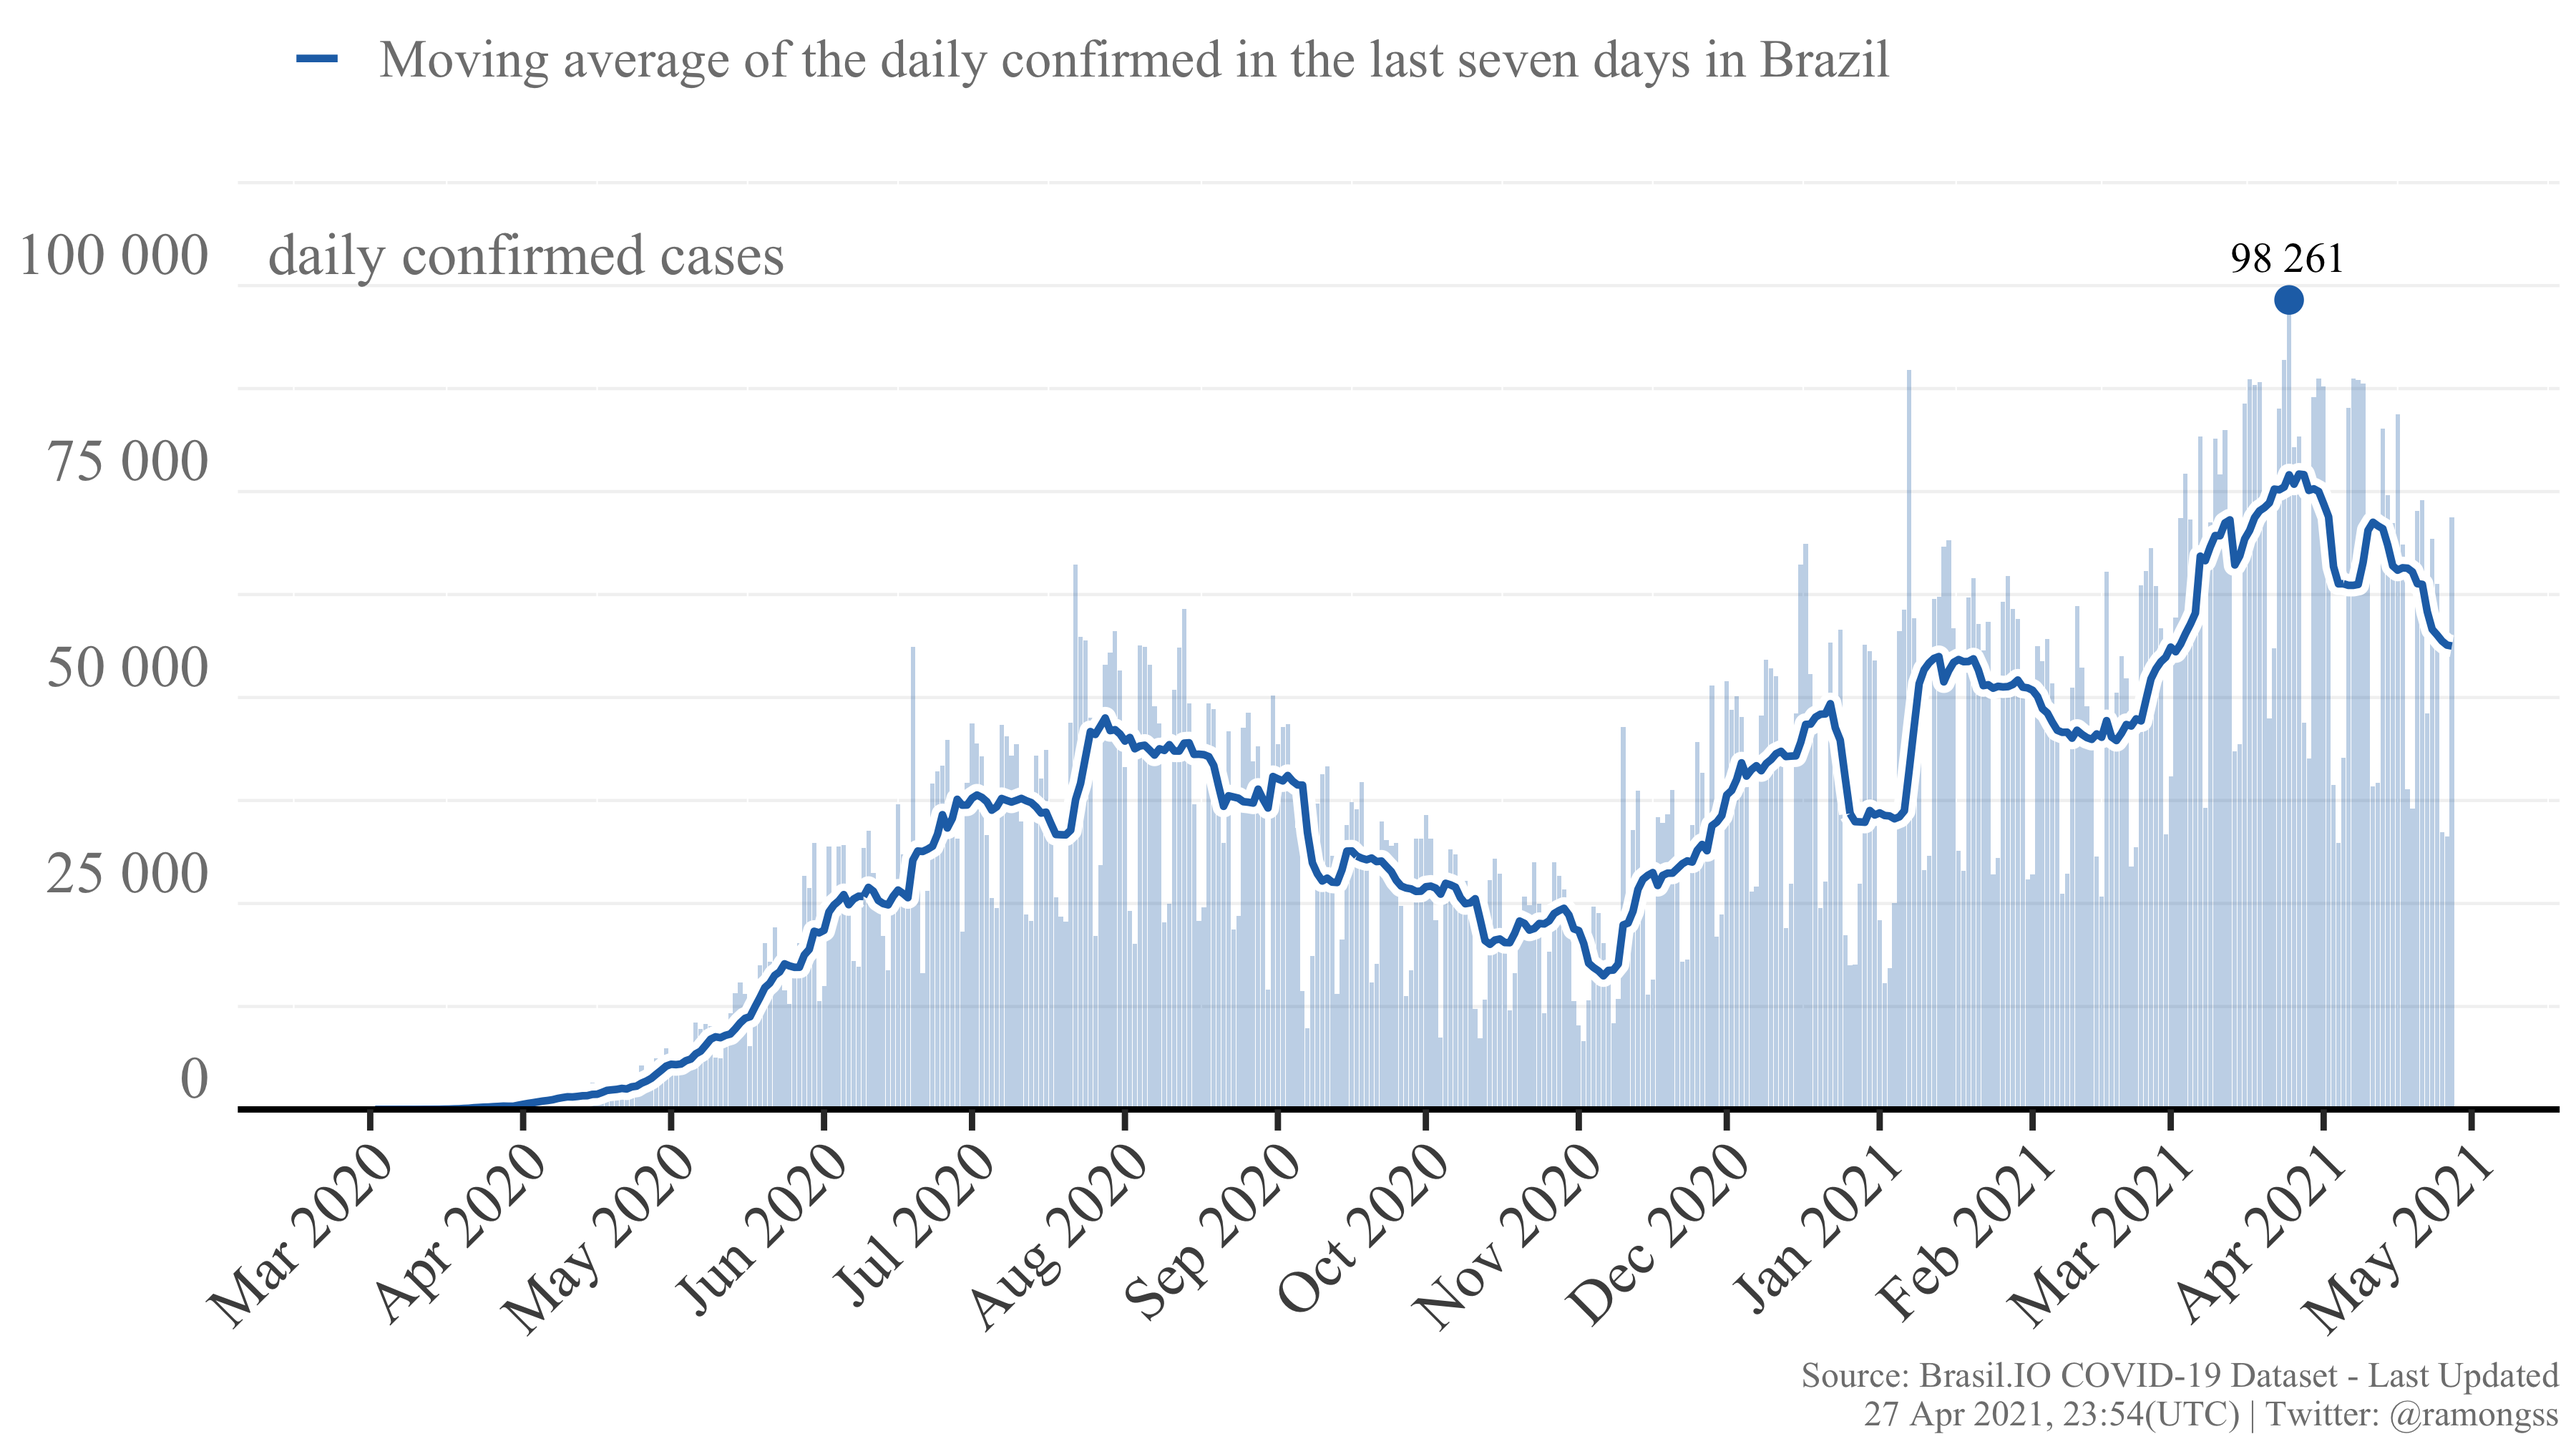
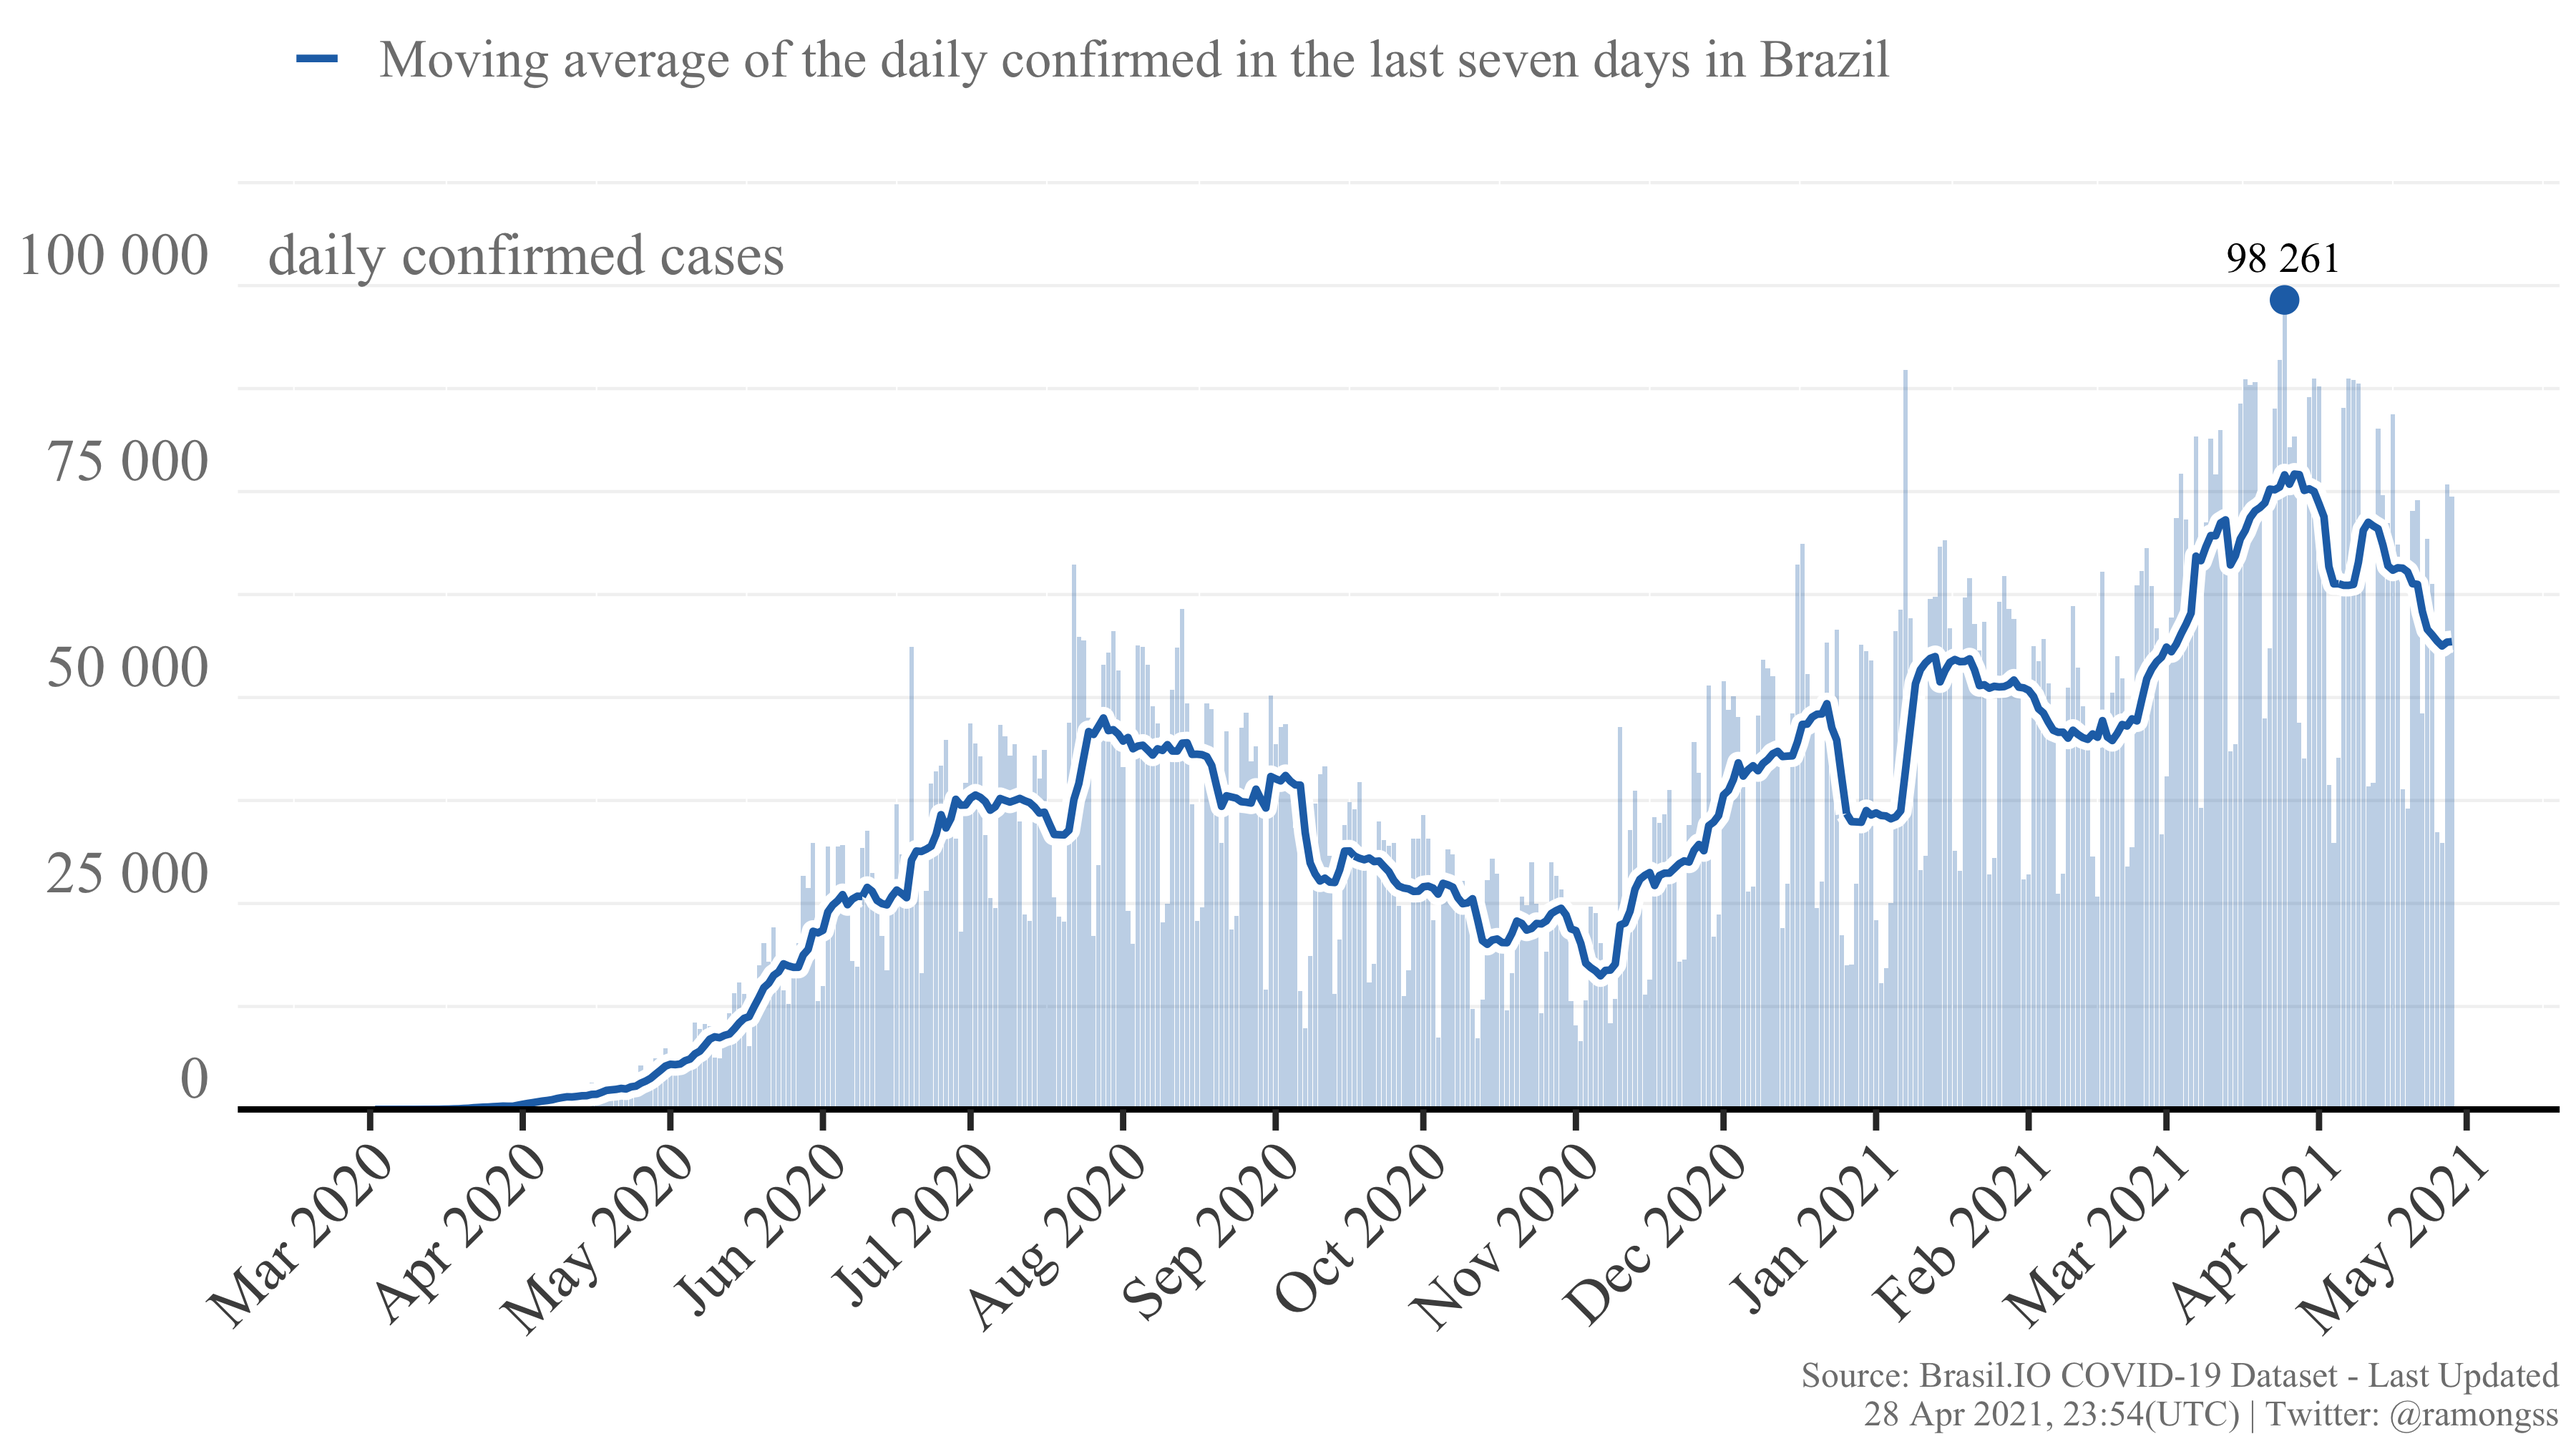
Re-build README.Rmd

diff --git a/README.md b/README.md
@@ -27,8 +27,8 @@ download_brasilio_table <- function(dataset = "covid19", table_name){
 
 ## COVID-19 Confirmed cases
 
-Currently, Brazil has a total of **14,453,930** confirmed cases at **27
-Apr, 2021**, with **71,865** new confirmed cases. The daily maximum
+Currently, Brazil has a total of **14,531,631** confirmed cases at **28
+Apr, 2021**, with **74,430** new confirmed cases. The daily maximum
 incidence was **98,261** confirmed cases at **25 Mar, 2021**. Here
 follows the Figure showing the confirmed case incidence as the bars, and
 the line as the moving average of the last 7 days.
@@ -37,8 +37,8 @@ the line as the moving average of the last 7 days.
 
 ## COVID-19 Deaths
 
-Currently, Brazil has a total of **395,505** deaths at **27 Apr, 2021**,
-with **2,946** new deaths. The daily maximum deaths incidence was
+Currently, Brazil has a total of **398,556** deaths at **28 Apr, 2021**,
+with **2,933** new deaths. The daily maximum deaths incidence was
 **4,148** deaths at **08 Apr, 2021**. Here follows the Figure showing
 the deaths incidence as the bars, and the line as the moving average of
 the last 7 days.
@@ -49,4 +49,4 @@ the last 7 days.
 
 This page is daily updated automatically using Github Actions.
 
-*Last update: 27 Apr 2021, 23:54 (UTC).*
+*Last update: 28 Apr 2021, 23:54 (UTC).*
